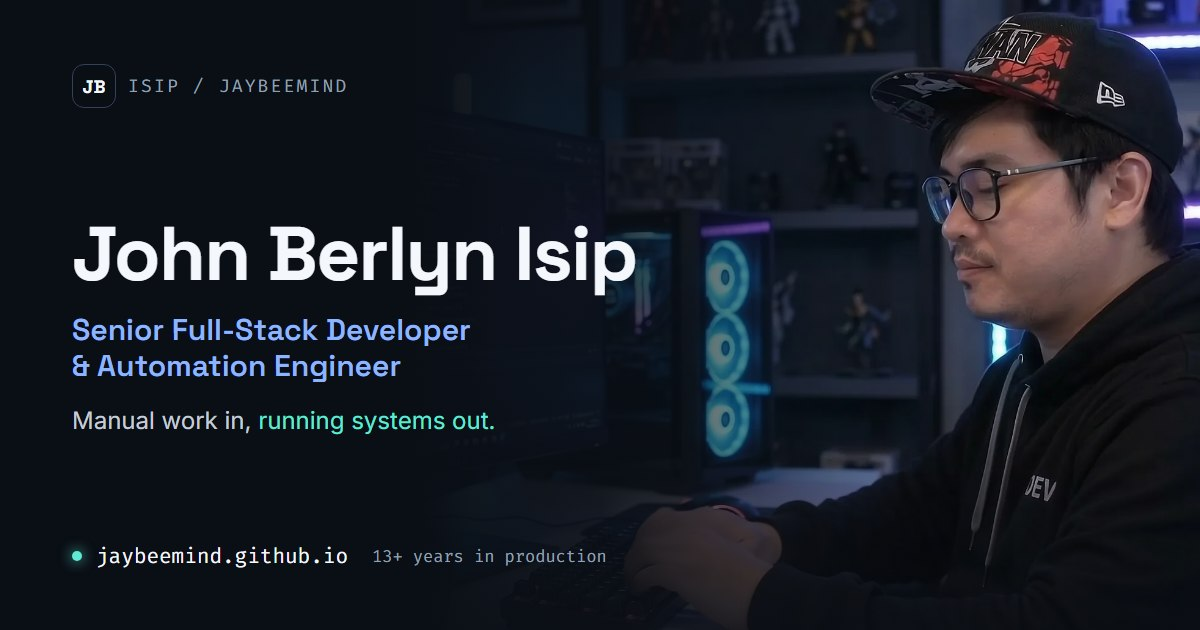
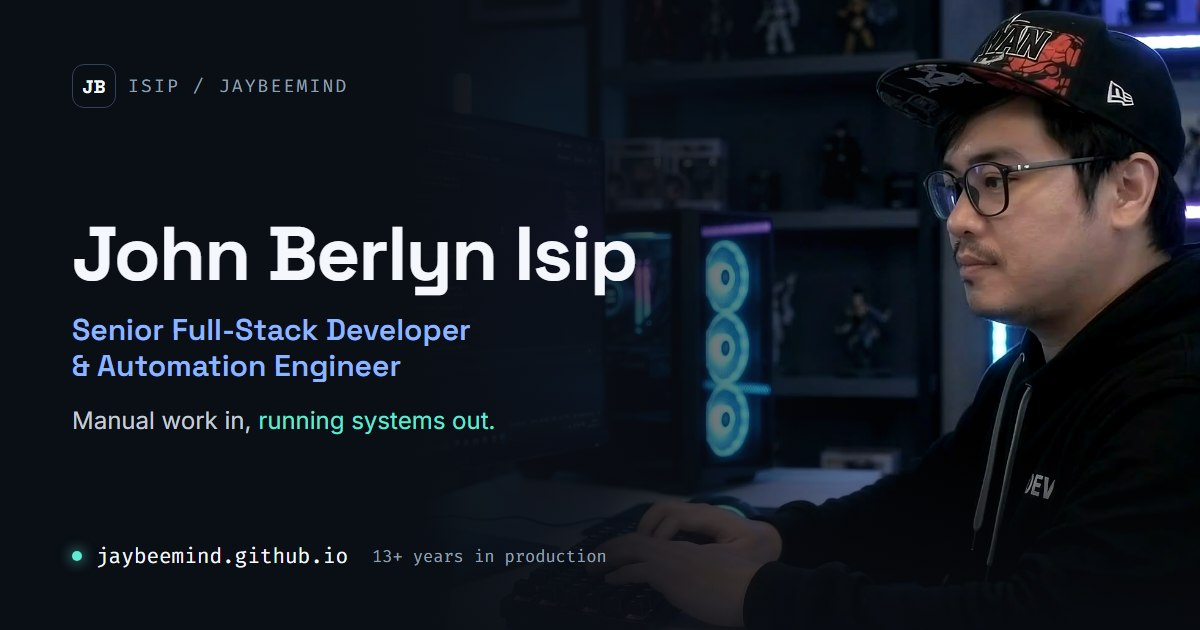
Use a frame where he looks at the monitor for the preview card
Swap the desk-b rest frame (eyes on the keyboard) for frame 84 of
desk-b-work, and version the image URL so link previews refetch it.

diff --git a/index.html b/index.html
@@ -26,7 +26,7 @@
         "alternateName": ["JB", "JayBee Isip", "jaybeemind"],
         "url": "https://jaybeemind.github.io/",
         "jobTitle": "Senior Full-Stack Developer & Automation Engineer",
-        "image": "https://jaybeemind.github.io/img/og-card.jpg",
+        "image": "https://jaybeemind.github.io/img/og-card.jpg?v=20261105",
         "address": {
           "@type": "PostalAddress",
           "addressLocality": "Quezon City",
@@ -62,7 +62,7 @@
     />
     <meta
       property="og:image"
-      content="https://jaybeemind.github.io/img/og-card.jpg"
+      content="https://jaybeemind.github.io/img/og-card.jpg?v=20261105"
     />
     <meta
       property="og:image:width"
